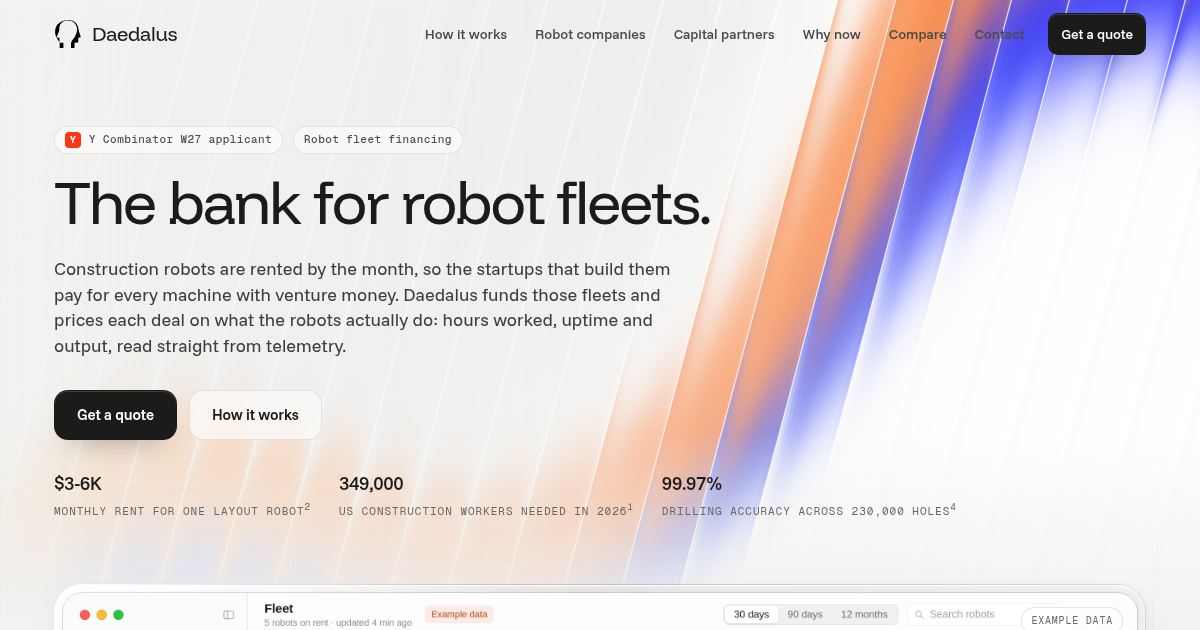
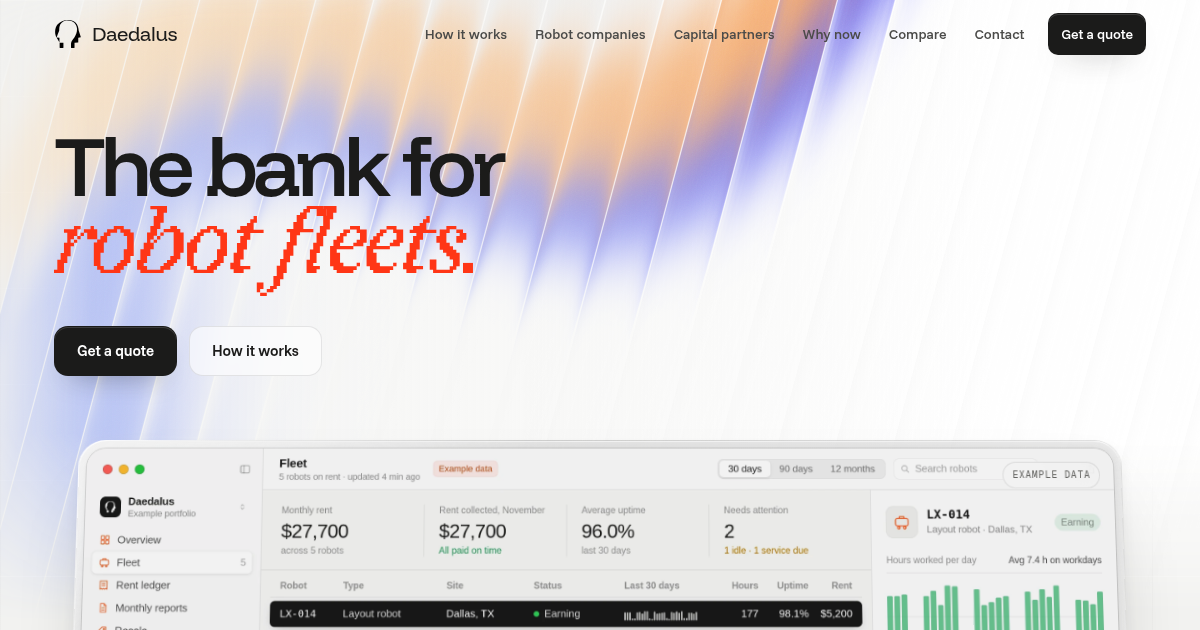
Remove Y Combinator mentions

diff --git a/index.html b/index.html
@@ -489,7 +489,6 @@
             <div class="contact-card" data-reveal><b>Email</b><p><a href="mailto:hello@daedalus.tech">hello@daedalus.tech</a></p><p class="small">Placeholder launch email.</p></div>
             <!-- PLACEHOLDER office: replace before launch -->
             <div class="contact-card" data-reveal><b>Office</b><p>1847 Labyrinth Way, Suite 300<br>Dallas, TX 75201</p><p class="small">Placeholder address. The company plans to base itself in Dallas-Fort Worth.</p></div>
-            <div class="contact-card" data-reveal><b>Applying to YC</b><p>Daedalus is a solo-founded company applying to Y Combinator for W27.</p></div>
           </div>
           <form class="note-form" id="contact-form" data-reveal>
             <h2 style="font-size:36px;margin-bottom:10px">Prepare a note.</h2>
@@ -530,7 +529,7 @@
       <div class="footer-grid">
         <div class="footer-brand">
           <a class="brand" href="#home" data-route><svg class="brand-mark" aria-hidden="true"><use href="#mk"/></svg><span>Daedalus</span></a>
-          <p>Robot fleet financing underwritten on real telemetry. Daedalus Systems LLC is applying to Y Combinator W27.</p>
+          <p>Robot fleet financing underwritten on real telemetry.</p>
         </div>
         <div><h2>Product</h2><ul><li><a href="#how-it-works" data-route>How it works</a></li><li><a href="#quote" data-route>Get a quote</a></li><li><a href="#compare" data-route>Compare</a></li></ul></div>
         <div><h2>Customers</h2><ul><li><a href="#robot-companies" data-route>Robot companies</a></li><li><a href="#capital-partners" data-route>Capital partners</a></li><li><a href="#contact" data-route>Contact</a></li></ul></div>

diff --git a/css/site.css b/css/site.css
@@ -80,13 +80,12 @@ h3{font-size:22px;line-height:1.2;letter-spacing:-.02em;margin-bottom:10px}
 .accent{color:var(--ember)}
 .small{font-size:14px;color:var(--muted)}
 .eyebrow-row{display:flex;align-items:center;gap:10px;margin-bottom:18px;flex-wrap:wrap}
-.yc-pill,.tag{
+.tag{
   display:inline-flex;align-items:center;gap:8px;
   min-height:28px;padding:4px 10px;border:1px solid rgba(27,27,26,.1);border-radius:999px;
   background:rgba(255,255,255,.56);backdrop-filter:blur(10px);
   color:#4E4E4B;font-family:var(--font-mono);font-size:11px;font-weight:500;letter-spacing:.04em;
 }
-.yc-pill i{display:grid;place-items:center;width:16px;height:16px;border-radius:4px;background:var(--ember);color:white;font-family:var(--font-body);font-style:normal;font-weight:700;font-size:10px;line-height:1}
 .tag.example{border-style:dashed;color:var(--muted)}
 .page{display:none;position:relative;z-index:1}
 .page.active{display:block}

diff --git a/js/radar.js b/js/radar.js
@@ -193,10 +193,10 @@ void main() {
   vec3 eye = vec3(0.0, -uDistance * st, uDistance * ct);
   vec3 rel = world - eye;
   float xc = rel.x;
-  float yc = dot(rel, vec3(0.0, ct, st));
+  float yCoord = dot(rel, vec3(0.0, ct, st));
   float zc = max(dot(rel, vec3(0.0, st, -ct)), 0.0001);
   vec2 center = uCenter / uResolution * 2.0 - 1.0;
-  gl_Position = vec4(center * zc + 2.0 * uFocal * uViewHeight * vec2(xc, yc) / uResolution, 0.0, zc);
+  gl_Position = vec4(center * zc + 2.0 * uFocal * uViewHeight * vec2(xc, yCoord) / uResolution, 0.0, zc);
   vLocal = local;
   vStyle = aStyle;
   vKind = aSprite.w;

diff --git a/CLAUDE.md b/CLAUDE.md
@@ -10,8 +10,7 @@ This folder holds the company website for **Daedalus Systems LLC** (a Texas LLC,
   - Robot companies, who keep the customer and keep their cash.
   - Capital partners, who get live data on every asset.
   - Nothing changes for contractors.
-- **Founder:** solo founder, applying to YC (W27). Based in Pune, India now. The company plans to base itself in **Dallas–Fort Worth, Texas**.
-- **Name clash:** there is an existing YC-backed company also called "Daedalus" (AI robotic factories). This was flagged; it hasn't been decided yet.
+- **Founder:** solo founder. Based in Pune, India now. The company plans to base itself in **Dallas–Fort Worth, Texas**.
 
 ### Copy rules (agreed with the founder)
 
@@ -50,7 +49,7 @@ The same site, the pitch deck and the full plan doc also live as claude.ai artif
 
 - Website: https://claude.ai/artifact/4KggBPMyB1Het1YYvkL9PZ
 - Deck (5 slides): https://claude.ai/artifact/XEb6FjFuNJiLH9HffVkUa8
-- Plan doc, including the YC answers: https://claude.ai/artifact/KcjWrPUcrWzfpGjpXcMwhY
+- Plan doc: https://claude.ai/artifact/KcjWrPUcrWzfpGjpXcMwhY
 
 ## How `index.html` works
 
